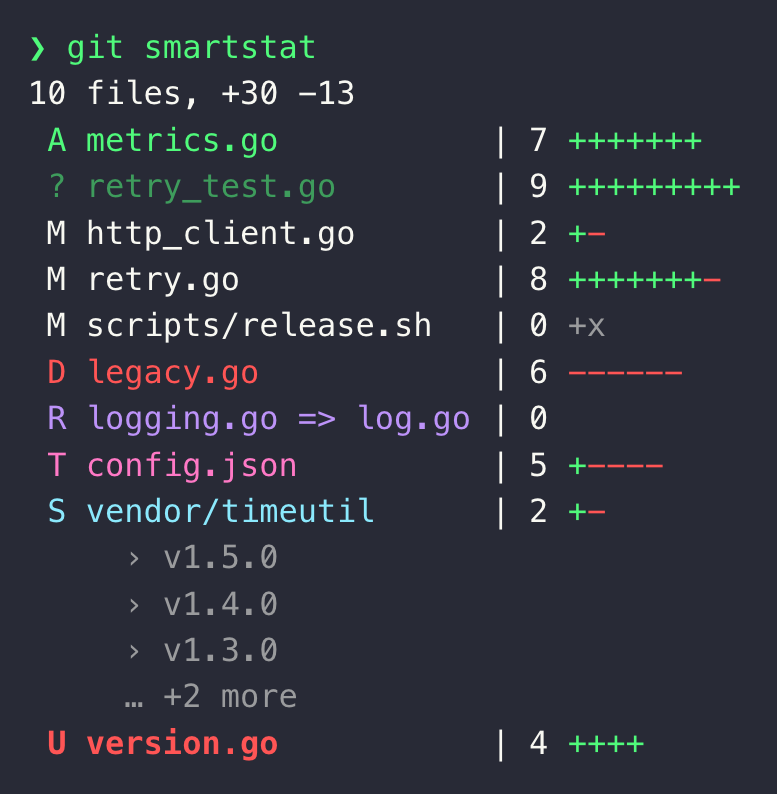
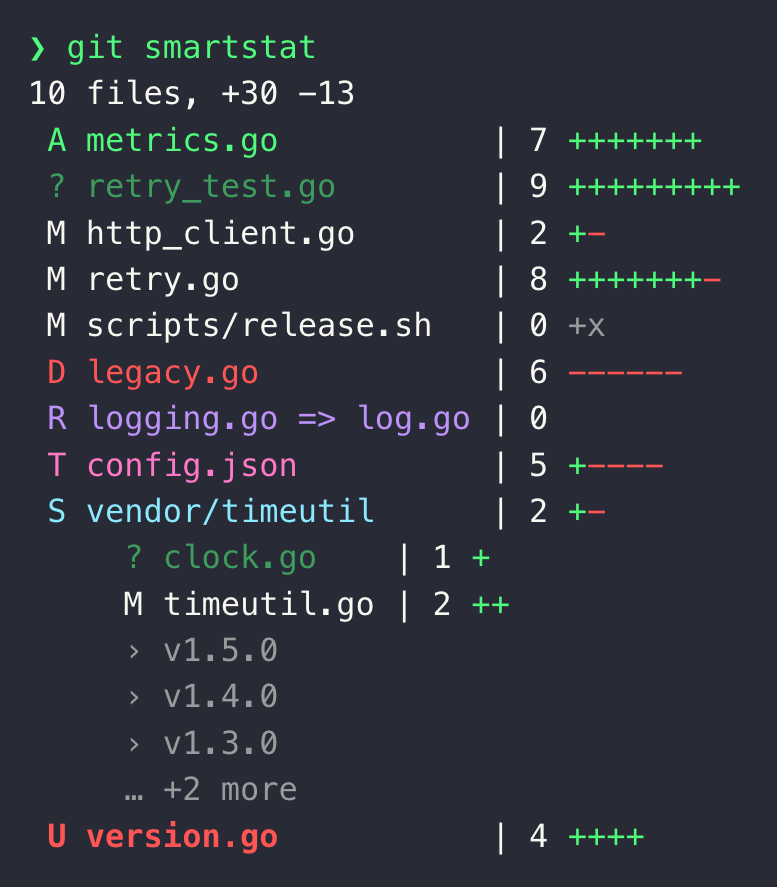
feat: expand a dirty submodule into its own uncommitted changes
A submodule that is merely dirty has an unchanged sha, so the parent's
gitlink diff renders it as a bare "S sub | 0" — an entry that says
nothing about what changed. In the working-tree bodies (-u, and the
wdir node -c/-C draw) an S entry now also expands into the submodule's
OWN uncommitted changes: this file's stat block, recomputed with the
submodule as cwd and indented one level in, keeping its markers, colors
and bars. A dirty submodule inside it nests again.

The dirty group prints above the existing bump-commit group (newest
change first), each capped at 3 lines with its own dim "… +N more".
Commit bodies (-c/-C under a commit) get the commit group only — a
committed diff has no working tree.

The recompute runs in a $(...) subshell, so the cd is contained and the
caller's STAT_* globals — which it is in the middle of rendering — stay
untouched; uncommitted_stat's own die() then merely empties the capture,
degrading to no sub-lines. Paths resolve against --show-toplevel, and an
uninitialized submodule (an empty directory inside the PARENT's worktree,
where git would report the parent's changes as the submodule's) is
skipped by requiring its own .git first.

make-demo.sh: the demo submodule is now left dirty as well as bumped, so
one entry exercises both groups. README examples, prose, and both
screenshots regenerated.

Claude-Session: https://claude.ai/code/session_01FqXnKacDEWiXpJDjSASubY

diff --git a/README.md b/README.md
@@ -95,11 +95,20 @@ within each group, matching `git status`):
 | `U` | unmerged (conflict) | bold red |
 
 A pure executable-bit flip (`chmod`), which `--stat` renders as `| 0`, gets a
-trailing `+x`/`-x` hint. A **submodule bump** (`S`) expands: its
-`git diff --submodule=log` commit subjects render as dim sub-lines under the stat
-line, newest first, capped at 3 with a `… +N more` tail — `›` for a commit gained,
-`‹` for one lost (a rewind); a bump git can't summarize (commits not present
-locally) adds none. The `@` marker moves to the node — that's where the working
+trailing `+x`/`-x` hint. A **submodule** (`S`) expands into sub-lines under its
+stat line, in two groups of at most 3 lines each, each closing with a dim
+`… +N more` when it overflows:
+
+- its own **uncommitted changes** — this same stat block, recomputed inside the
+  submodule and indented one level in, keeping its markers, colors and bars (a
+  dirty submodule inside it nests again). Without this a merely dirty submodule
+  says nothing at all: its recorded sha is unchanged, so git renders it as a bare
+  `| 0`.
+- the commits its pointer **gained or lost**, from `git diff --submodule=log`,
+  newest first and dim — `›` for one gained, `‹` for one lost (a rewind); a bump
+  git can't summarize (commits not present locally) adds none.
+
+The `@` marker moves to the node — that's where the working
 copy is — and `HEAD` drops to an `o` (keeping its author and subject). This is a
 git-smartlog extension with no Sapling equivalent, so the output no longer mirrors
 `sl` (see [Differences](#differences-from-saplings-sl)):
@@ -116,6 +125,8 @@ $ git smartlog -u -n 2
   │  R logging.go => log.go | 0
   │  T config.json          | 5 +----
   │  S vendor/timeutil      | 2 +-
+  │      ? clock.go    | 1 +
+  │      M timeutil.go | 2 ++
   │      › v1.5.0
   │      › v1.4.0
   │      › v1.3.0
@@ -203,6 +214,8 @@ $ git smartlog -u -b
   │  R logging.go => log.go | 0
   │  T config.json          | 5 +----
   │  S vendor/timeutil      | 2 +-
+  │      ? clock.go    | 1 +
+  │      M timeutil.go | 2 ++
   │      › v1.5.0
   │      › v1.4.0
   │      › v1.3.0
@@ -262,6 +275,8 @@ $ git smartlog -u -n 2 -B -a
   │  R logging.go => log.go | 0
   │  T config.json          | 5 +----
   │  S vendor/timeutil      | 2 +-
+  │      ? clock.go    | 1 +
+  │      M timeutil.go | 2 ++
   │      › v1.5.0
   │      › v1.4.0
   │      › v1.3.0
@@ -439,6 +454,8 @@ $ git smartstat
  R logging.go => log.go | 0
  T config.json          | 5 +----
  S vendor/timeutil      | 2 +-
+     ? clock.go    | 1 +
+     M timeutil.go | 2 ++
      › v1.5.0
      › v1.4.0
      › v1.3.0
